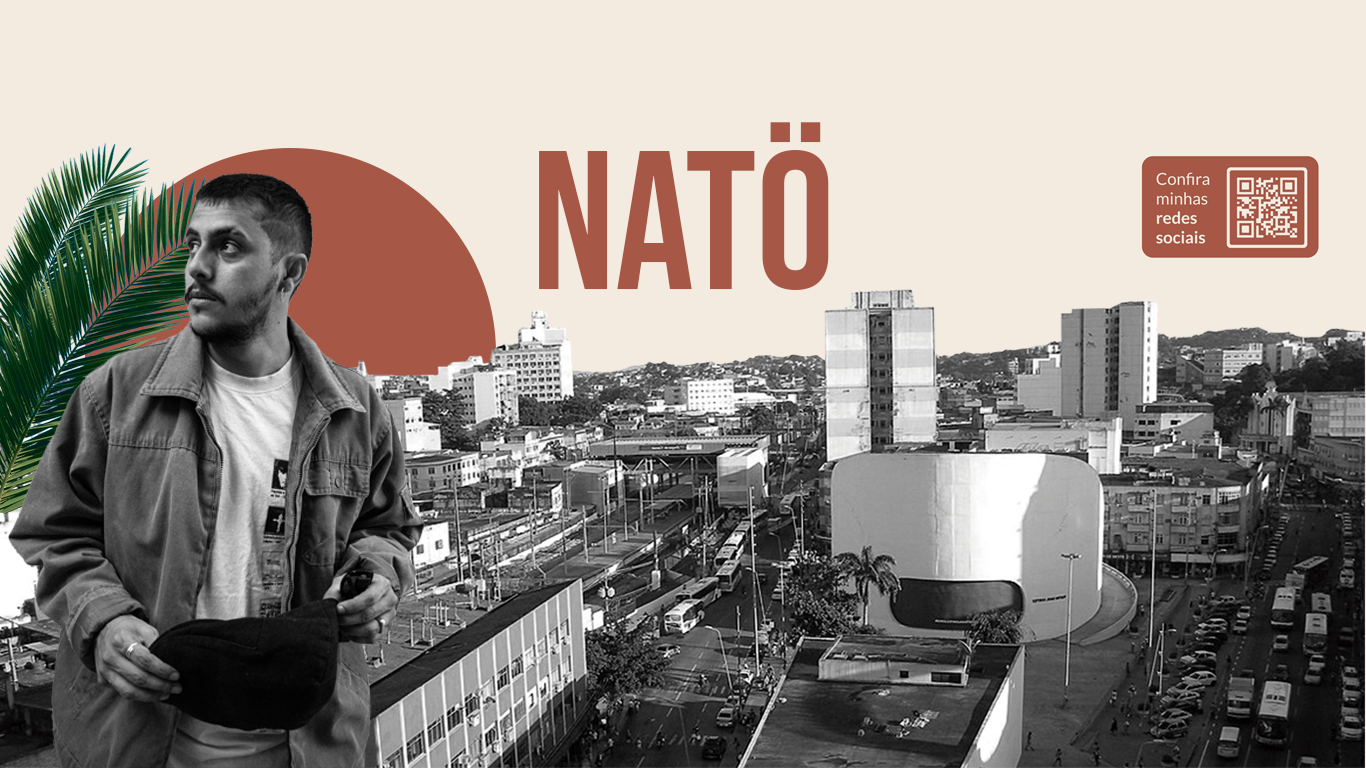
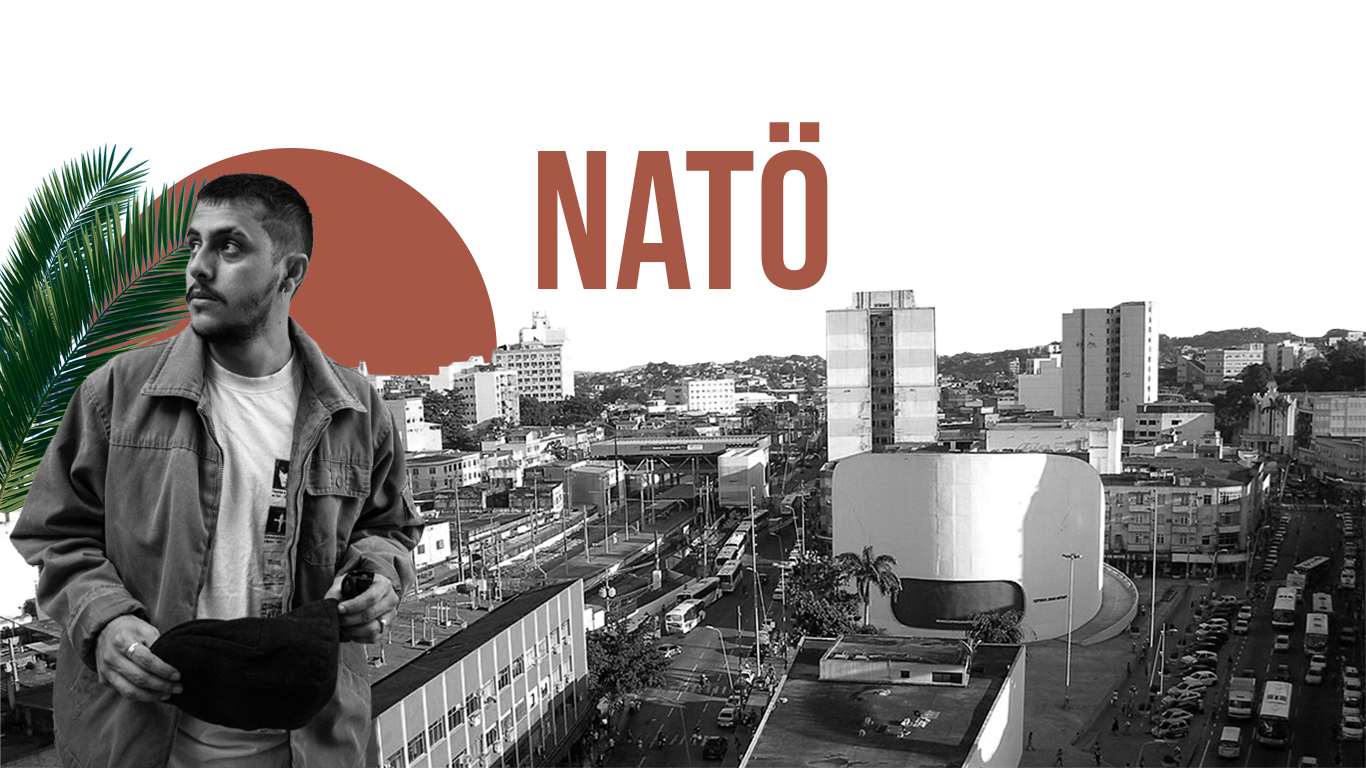
styled: responsive application

diff --git a/src/components/Footer.js b/src/components/Footer.js
@@ -1,0 +1,76 @@
+import styled from "styled-components";
+
+export default function Footer() {
+	return (
+		<Container>
+			<Text>
+				<p>© 2023 NATÖ. Desenvolvedor e web design: Sérgio Mendes.</p>
+			</Text>
+			<Midias>
+				<MidiaIcon>
+					<a href="https://www.instagram.com/natocomtrema/" target="_blank">
+						<ion-icon name="logo-instagram"></ion-icon>
+					</a>
+				</MidiaIcon>
+				<MidiaIcon>
+					<a href="https://twitter.com/natocomtrema" target="_blank">
+						<ion-icon name="logo-twitter"></ion-icon>
+					</a>
+				</MidiaIcon>
+				<MidiaIcon>
+					<a
+						href="https://open.spotify.com/artist/5tcibVee711ANTnnmW4gr6"
+						target="_blank"
+					>
+						<ion-icon name="musical-notes-outline"></ion-icon>
+					</a>
+				</MidiaIcon>
+				<MidiaIcon>
+					<a href="https://www.youtube.com/@NATOcomtrema" target="_blank">
+						<ion-icon name="logo-youtube"></ion-icon>
+					</a>
+				</MidiaIcon>
+			</Midias>
+		</Container>
+	);
+}
+
+const Container = styled.div`
+	width: 100vw;
+	height: 50px;
+	position: fixed;
+	bottom: 0;
+	left: 0;
+	background-color: #a65746;
+	display: flex;
+	align-items: center;
+	justify-content: space-between;
+	box-sizing: border-box;
+	padding: 10px;
+`;
+
+const Text = styled.div`
+	font-family: "Roboto";
+	font-size: 10px;
+	color: #f3ebe0;
+	font-weight: 400;
+`;
+
+const Midias = styled.div`
+	display: flex;
+`;
+
+const MidiaIcon = styled.div`
+	margin-left: 15px;
+	ion-icon {
+		width: 25px;
+		height: 25px;
+		color: #f3ebe0;
+	}
+	&:hover {
+		cursor: pointer;
+		ion-icon {
+			color: #ecde82;
+		}
+	}
+`;

diff --git a/src/pages/Home/Home.js b/src/pages/Home/Home.js
@@ -1,12 +1,16 @@
 import styled from "styled-components";
 import home from "../../assets/images/home.png";
 import Header from "../../components/Header";
+import Footer from "../../components/Footer";
 
 export default function Home() {
 	return (
 		<Container>
 			<Header />
-			<Background></Background>
+			<Background>
+				<img src={home} />
+			</Background>
+			<Footer />
 		</Container>
 	);
 }
@@ -14,11 +18,15 @@ export default function Home() {
 const Container = styled.div`
 	width: 100vw;
 	height: 100vh;
-	background-image: url(${home});
-	background-repeat: no-repeat;
-	background-size: 100%;
+	background-color: #f3ebe0;
 `;
 
 const Background = styled.div`
-	
+	img {
+		width: 100vw;
+		height: 100vh;
+		position: fixed;
+		bottom: 0;
+		left: 0;
+	}
 `;

diff --git a/src/components/Header.js b/src/components/Header.js
@@ -24,7 +24,12 @@ export default function Header() {
 	);
 }
 
+
+
 const Menu = styled.div`
+	@media screen and (max-width: 480px) {
+		
+	}
 	width: 100vw;
 	height: 50px;
 	background-color: #a65746;
@@ -33,6 +38,9 @@ const Menu = styled.div`
 	justify-content: space-between;
 	box-sizing: border-box;
 	padding: 10px;
+	position: fixed;
+    top: 0;
+    left: 0;
 `;
 
 const Nato = styled.div`
